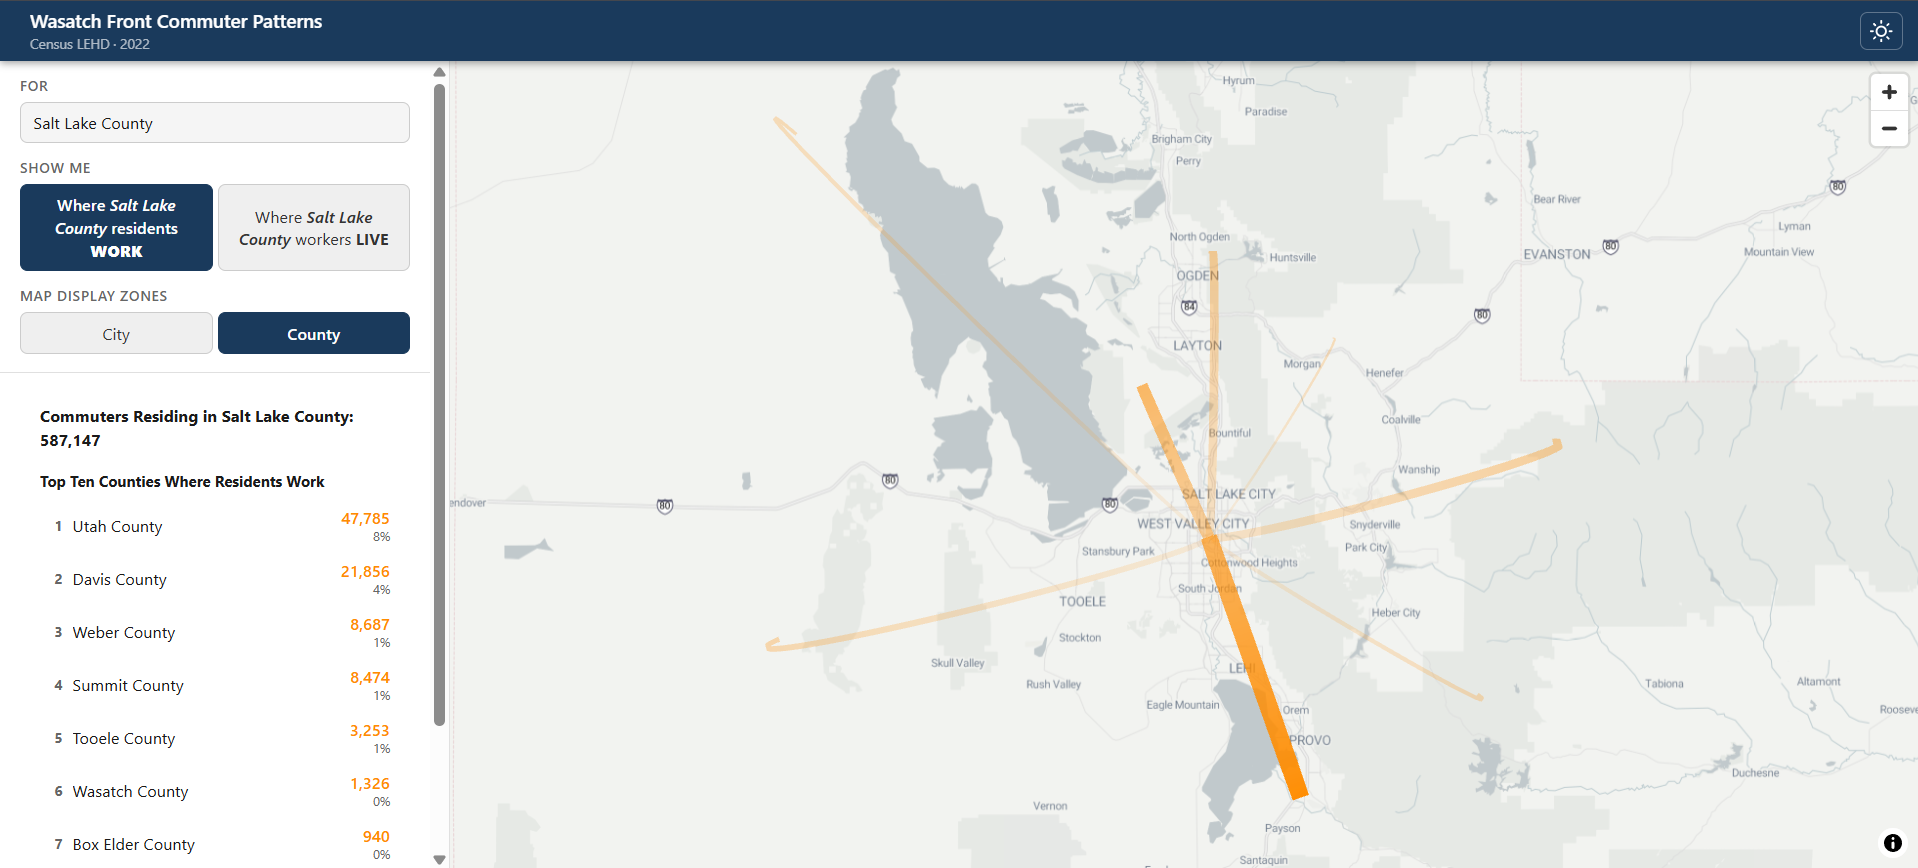
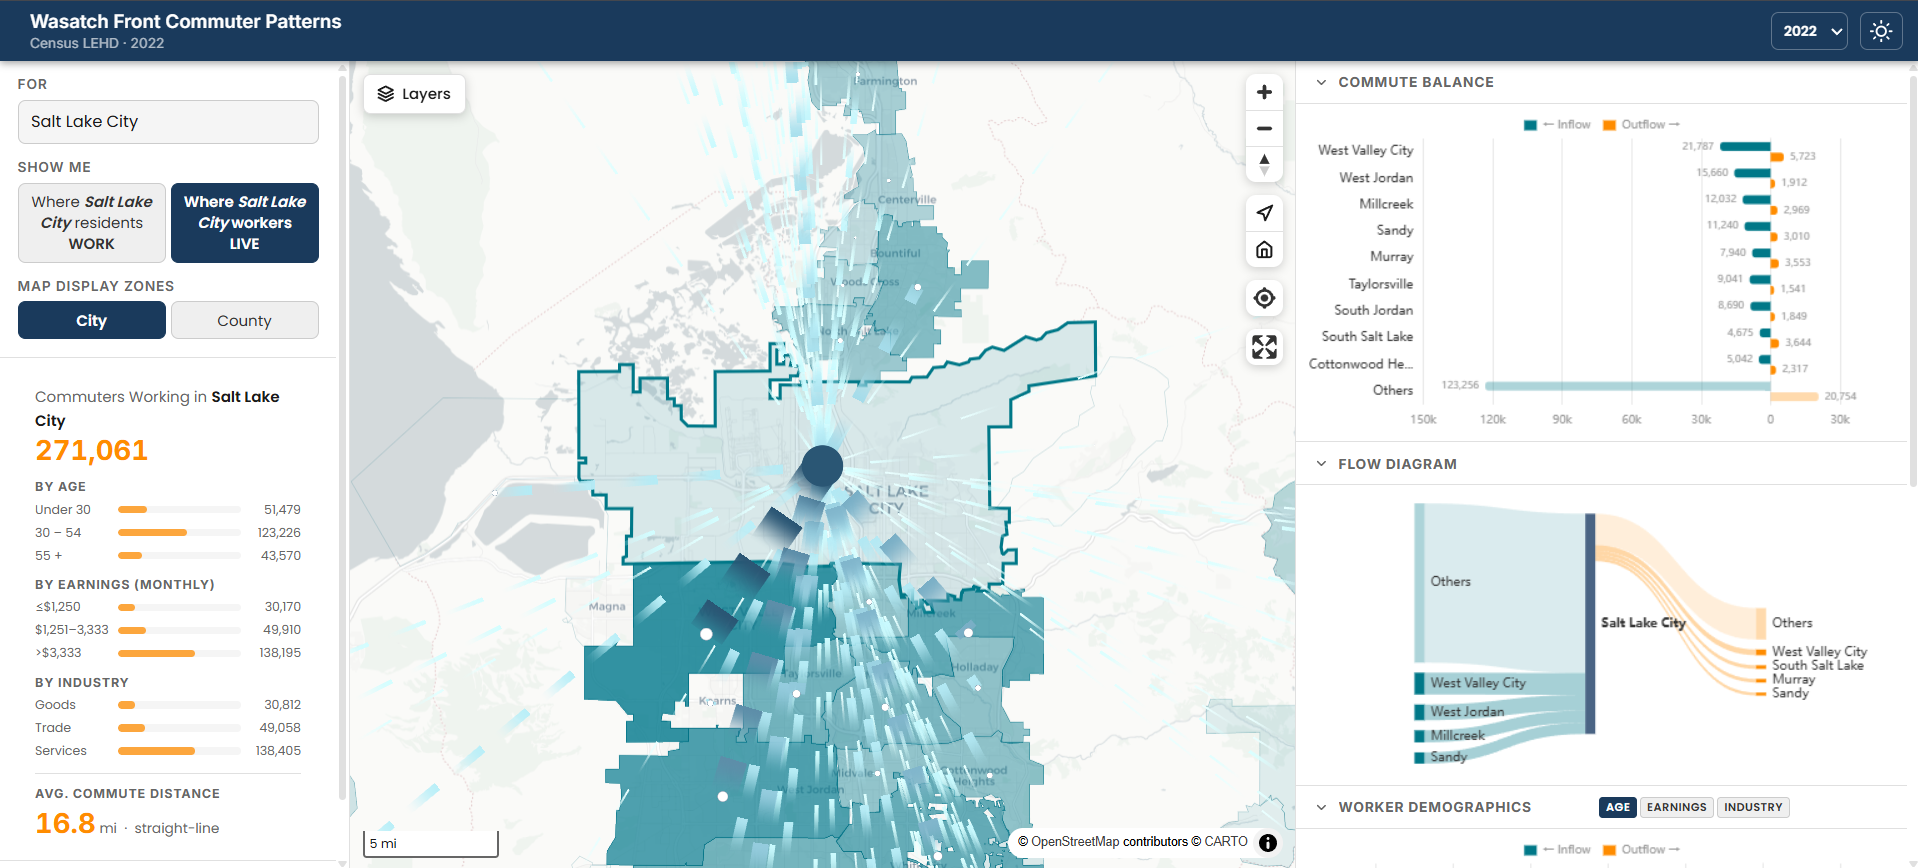
docs: update README to reflect current app state
- Correct tile provider (CARTO, not Stadia Maps)
- Correct flow viz library (Flowmap.gl FlowmapLayer, not raw ArcLayer)
- Add ECharts to tech stack
- Document all five chart panels and their capabilities
- Update data section: multi-year structure (2002–2023), manifest.json,
  boundary GeoJSON files
- Update features list: year selector, export, layer controls, new map controls
- Update project structure to include charts.js and all four CSS files
- Update data pipeline notes to reflect GeoJSON boundary export

diff --git a/README.md b/README.md
@@ -1,6 +1,6 @@
 # Wasatch Front Commuter Patterns
 
-An interactive WebAssembly-powered map for exploring commute flow patterns across the Wasatch Front region, built on open-source tools and hosted on GitHub Pages — no ArcGIS or proprietary dependencies.
+An interactive WebAssembly-powered map for exploring commute flow patterns across the Wasatch Front region, built entirely on open-source tools and hosted on GitHub Pages — no ArcGIS or proprietary dependencies.
 
 **Live app:** https://ar-puuk.github.io/APP-WFRC-Commute-Patterns/
 
@@ -11,36 +11,49 @@ An interactive WebAssembly-powered map for exploring commute flow patterns acros
 ## Features
 
 - **Arc flow map** — curved arcs connect origins and destinations; arc width and opacity scale with commuter volume
-- **Four aggregation combinations** — select any city or county, then display destinations at city or county granularity independently
+- **City and county aggregation** — select any city or county; display destinations at city or county granularity independently
 - **Both flow directions** — "where residents work" and "where workers live"
-- **Top 10 list** — click any row to jump to that area
-- **Light / dark mode** — full theme switching including map tiles and arc colors
+- **22 years of data** — LEHD LODES data from 2002–2023; switch years from the header
+- **Five chart panels** (right sidebar, collapsible and resizable):
+  - *Commute Balance* — diverging bar showing top destinations and origins simultaneously
+  - *Flow Diagram* — bilateral Sankey (top 4 + Others per side)
+  - *Worker Demographics* — age, earnings, and industry breakdowns with direction toggle
+  - *Commute Reach* — distance-band distribution (< 10 mi, 10–25 mi, 25–50 mi, 50+ mi)
+  - *Industry Mix* — stacked bar across top-5 cities with inflow/outflow toggle
+- **Export** — every chart exports as PNG or CSV
+- **Layer controls** — toggle flow lines and polygon choropleth; set a minimum-commuter threshold for flow lines
+- **Map controls** — zoom, compass with pitch visualization, reset tilt & north, reset view, geolocate, fullscreen, scale bar
+- **Light / dark mode** — full theme switching including map tiles, arc colors, chart colors, and map controls
 - **Fully client-side** — DuckDB-WASM queries pre-processed Parquet files directly in the browser; no server or API keys required
 
 ## Data
 
-**Source:** [US Census LEHD LODES 8](https://lehd.ces.census.gov/data/lodes/LODES8/), Origin-Destination Employment Statistics for Utah, 2022.
+**Source:** [US Census LEHD LODES 8](https://lehd.ces.census.gov/data/lodes/LODES8/), Origin-Destination Employment Statistics for Utah, 2002–2023.
 
 **Coverage:** Nine WFRC-region counties — Box Elder, Davis, Weber, Morgan, Salt Lake, Utah, Tooele, Wasatch, and Summit.
 
 **Geography:** Block-level OD pairs are aggregated to city (Census-designated place) and county level using the LEHD geographic crosswalk. Centroids are derived from Census TIGER/Line 2020 shapefiles.
 
-Pre-processed data files committed to the repo (`data/`) so the app runs with no server-side processing:
+Pre-processed data files are committed to the repo under `data/<year>/` so the app runs with no server-side processing:
 
-| File | Rows | Description |
-|---|---|---|
-| `data/city_flows.parquet` | 13,479 | City-to-city OD pairs with commuter counts and breakdowns by age, earnings, and industry |
-| `data/county_flows.parquet` | 81 | County-to-county OD pairs |
-| `data/city_meta.json` | 160 | City centroids (lat/lon from TIGER polygons) |
-| `data/county_meta.json` | 9 | County centroids |
+| File | Description |
+|---|---|
+| `data/manifest.json` | Available years and default year |
+| `data/<year>/city_flows.parquet` | City-to-city OD pairs with commuter counts and breakdowns by age, earnings, and industry |
+| `data/<year>/county_flows.parquet` | County-to-county OD pairs |
+| `data/<year>/city_meta.json` | City centroids (lat/lon from TIGER polygons) |
+| `data/<year>/county_meta.json` | County centroids |
+| `data/city_boundaries.geojson` | City polygon boundaries for choropleth |
+| `data/county_boundaries.geojson` | County polygon boundaries for choropleth |
 
 ## Tech stack
 
 | Layer | Library |
 |---|---|
 | Build | [Vite](https://vitejs.dev/) |
-| Map | [MapLibre GL JS](https://maplibre.org/) + [Stadia Maps](https://stadiamaps.com/) tiles |
-| Flow visualization | [deck.gl](https://deck.gl/) ArcLayer via `@deck.gl/mapbox` |
+| Map | [MapLibre GL JS](https://maplibre.org/) + [CARTO](https://carto.com/) raster tiles |
+| Flow visualization | [Flowmap.gl](https://flowmap.gl/) FlowmapLayer via `@deck.gl/mapbox` |
+| Charts | [ECharts](https://echarts.apache.org/) v5 |
 | In-browser data | [DuckDB-WASM](https://duckdb.org/docs/api/wasm/overview.html) querying Parquet files |
 | Data pipeline | Python — pandas, GeoPandas, PyArrow |
 | Python env | [uv](https://docs.astral.sh/uv/) |
@@ -75,7 +88,7 @@ The pre-processed `data/` files are already committed. Only re-run this if you w
 uv run python scripts/process_data.py
 ```
 
-The script downloads ~200 MB of source data (LEHD OD files + Census TIGER shapefiles) and writes the four output files into `data/`.
+The script downloads LEHD OD files and Census TIGER shapefiles and writes the output files into `data/`.
 
 ### 4. Start the dev server
 
@@ -110,21 +123,27 @@ To enable it on a new repository:
 ├── src/
 │   ├── main.js                 # App entry — state, boot, visualization loop
 │   ├── db.js                   # DuckDB-WASM init and query functions
-│   ├── map.js                  # MapLibre + deck.gl ArcLayer
+│   ├── map.js                  # MapLibre + Flowmap.gl + map controls
 │   ├── sidebar.js              # Sidebar UI — search, toggles, stats, Top 10
+│   ├── charts.js               # ECharts panels — all 5 charts + exports
 │   └── styles/
 │       ├── main.css            # Layout and CSS custom properties (light/dark tokens)
-│       └── sidebar.css         # Sidebar-specific styles
+│       ├── sidebar.css         # Sidebar-specific styles
+│       ├── charts.css          # Right panel chart section styles
+│       └── toolbar.css         # Map overlay toolbar + MapLibre control theme overrides
 │
 ├── data/                       # Pre-processed data files (committed)
-│   ├── city_flows.parquet
-│   ├── county_flows.parquet
-│   ├── city_meta.json
-│   └── county_meta.json
+│   ├── manifest.json           # Available years list
+│   ├── city_boundaries.geojson
+│   ├── county_boundaries.geojson
+│   └── <year>/                 # One directory per year (2002–2023)
+│       ├── city_flows.parquet
+│       ├── county_flows.parquet
+│       ├── city_meta.json
+│       └── county_meta.json
 │
 ├── scripts/
-│   ├── process_data.py         # Offline data pipeline
-│   └── requirements.txt        # Alternative pip install reference
+│   └── process_data.py         # Offline data pipeline
 │
 ├── assets/
 │   └── wfrc-logo.png
@@ -140,14 +159,14 @@ To enable it on a new repository:
 
 `scripts/process_data.py` runs entirely offline and produces the committed `data/` files:
 
-1. Downloads `ut_od_main_JT00_2022.csv.gz` from LEHD (1.4 M block-level OD records)
+1. Downloads `ut_od_main_JT00_<year>.csv.gz` from LEHD (block-level OD records)
 2. Downloads the LEHD geographic crosswalk (`ut_xwalk.csv.gz`) to map blocks → city and county names
 3. Filters to flows where both home and work blocks are within the WFRC 9-county region
 4. Labels unincorporated blocks as `"[County] Unincorporated"`
 5. Aggregates to city→city and county→county pairs, summing all job-count columns
 6. Downloads Census TIGER 2020 Place and County shapefiles for Utah
 7. Computes polygon centroids in Utah State Plane (EPSG:26912) and projects to WGS84
-8. Exports Parquet files (Snappy-compressed) and JSON metadata
+8. Exports Parquet files (Snappy-compressed), JSON metadata, and GeoJSON boundaries
 
 ---
 
@@ -155,4 +174,4 @@ To enable it on a new repository:
 
 - Commute data: [US Census Bureau LEHD Program](https://lehd.ces.census.gov/)
 - Geography: [US Census Bureau TIGER/Line Shapefiles](https://www.census.gov/geographies/mapping-files/time-series/geo/tiger-line-file.html)
-- Map tiles: [Stadia Maps](https://stadiamaps.com/) / [OpenMapTiles](https://openmaptiles.org/) / [OpenStreetMap](https://www.openstreetmap.org/copyright) contributors
+- Map tiles: [CARTO](https://carto.com/attributions) / [OpenStreetMap](https://www.openstreetmap.org/copyright) contributors